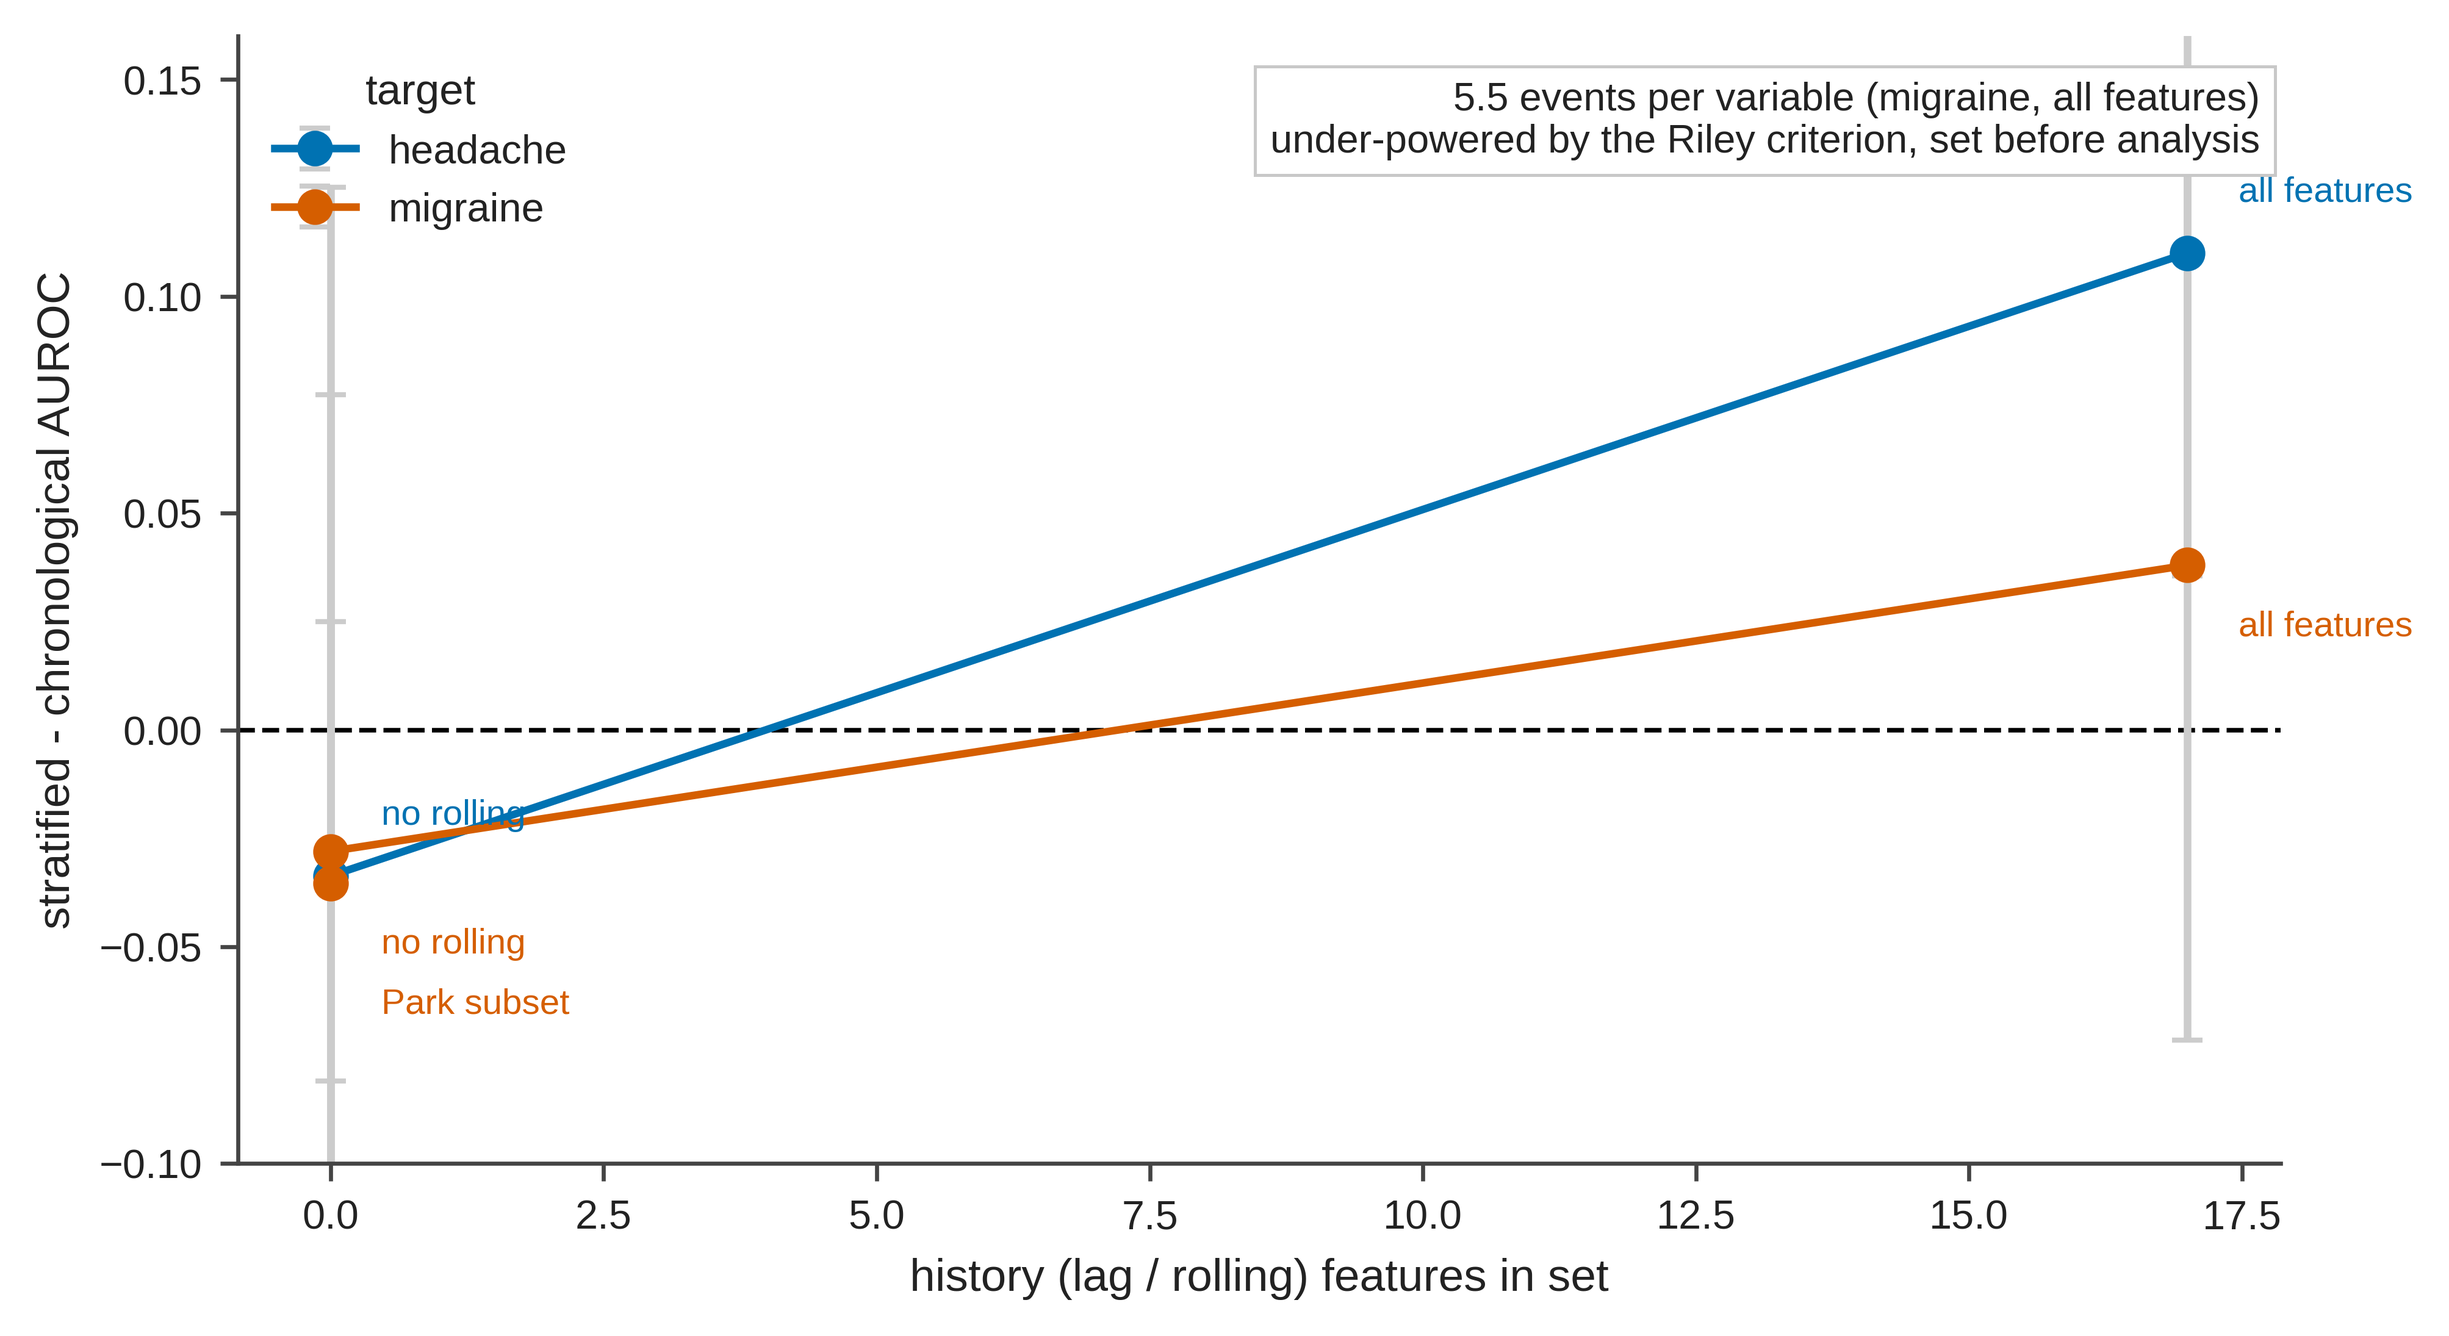
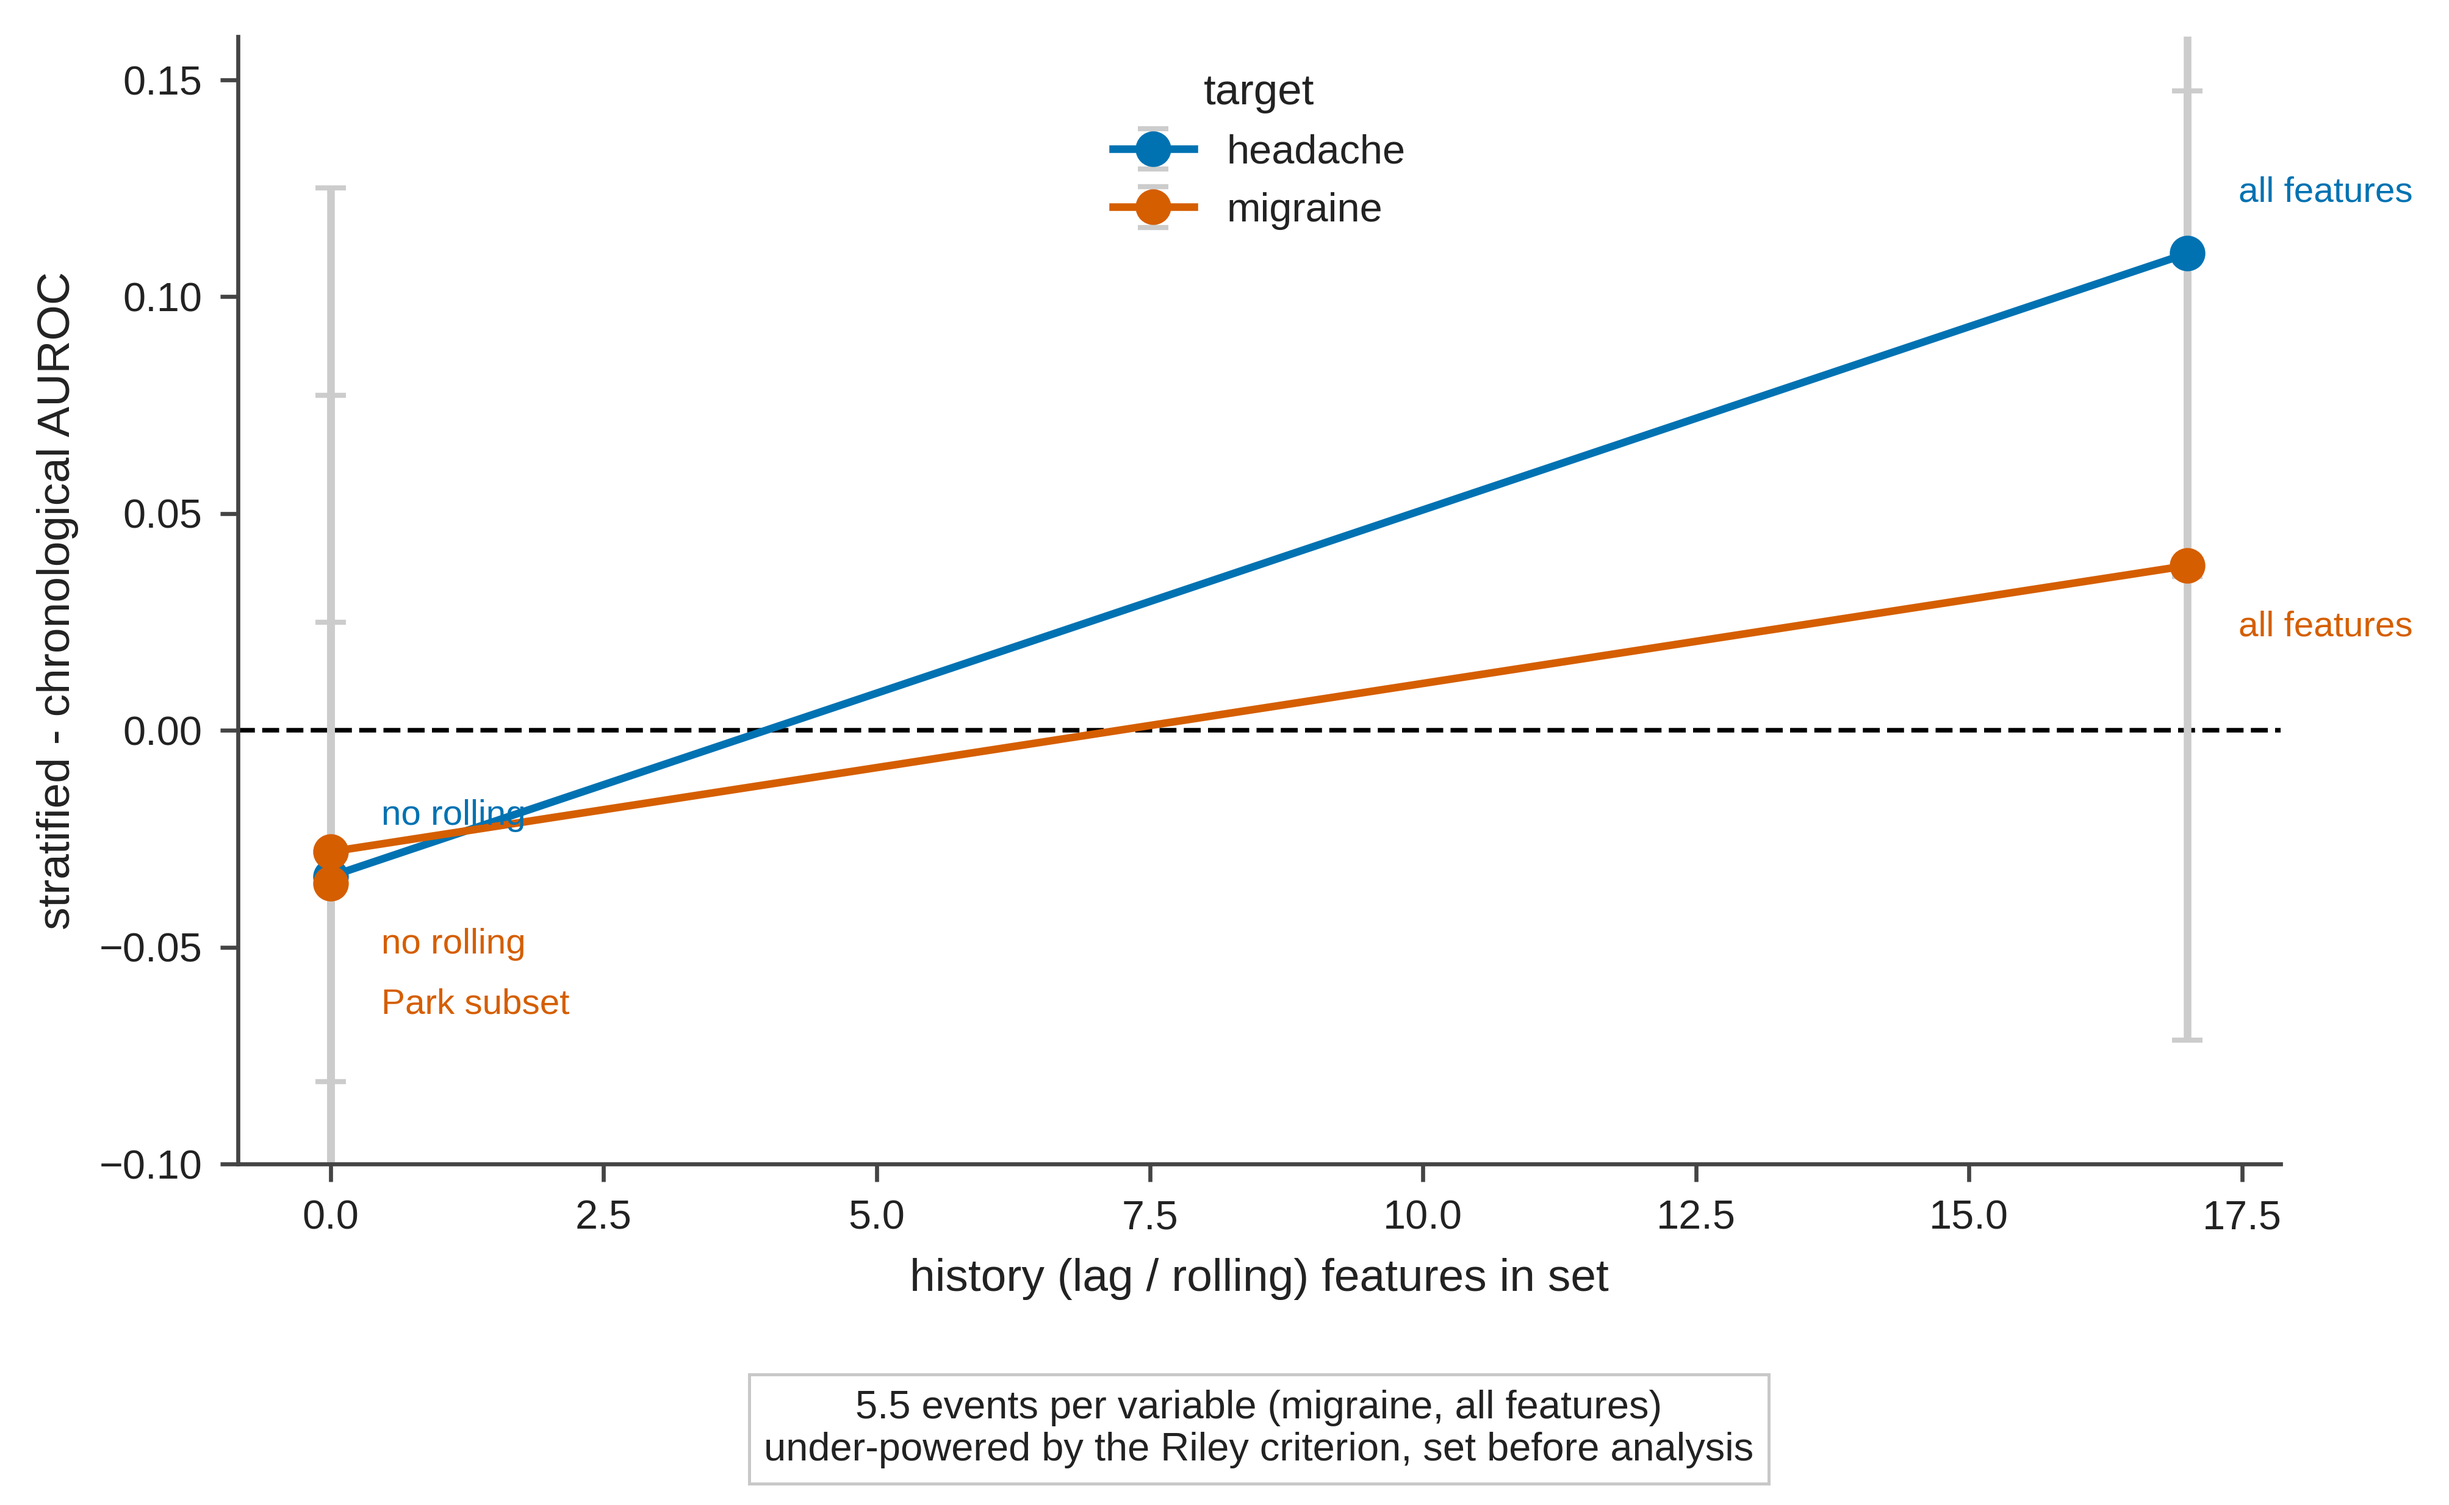
figs

diff --git a/docs/methodAndResults_diagramCreatorScripts/fig_e2_within_person_sites.py b/docs/methodAndResults_diagramCreatorScripts/fig_e2_within_person_sites.py
@@ -70,8 +70,13 @@ def main():
         # neutral reference line + per-panel value, so the shared legend swatch
         # cannot mismatch the drawn colour (the internal estimate is target-specific)
         ax.axhline(INTERNAL[tgt], color=S.SOFT, lw=1.4)
+        # Sat directly on its own rule and ran into the leftmost marker. Nudged
+        # up off the line and given a white ground so the rule does not strike
+        # through the glyphs.
         ax.text(0.02, INTERNAL[tgt], f"internal C {INTERNAL[tgt]:.2f}",
-                transform=ax.get_yaxis_transform(), va="bottom", fontsize=7, color=S.SOFT)
+                transform=ax.get_yaxis_transform(), va="bottom", fontsize=7,
+                color=S.INK,
+                bbox=dict(facecolor="white", edgecolor="none", pad=1.4))
         # Add estimability denominator annotation per panel (bottom-left, away from legend).
         ks = [int(r.get("within_k", 0)) for s in SITES for m in MODELS
               if (r := d.get((tgt, s, m))) is not None]
@@ -85,7 +90,7 @@ def main():
         ax.set_xticklabels([f"held-out\n{s}" for s in SITES])
         ax.set_ylim(0.40, 0.85)
         ax.set_title(tgt)
-        S.epv_annotation(ax, tgt, cell="full_features", loc="upper right")
+        S.epv_annotation(ax, tgt, cell="full_features", loc="below")
     axes[0].set_ylabel("within-person C-statistic")
     axes[0].legend(fontsize=8, loc="upper center", ncol=2)
     fig.suptitle("Within-person discrimination stays near chance off-site\n"

diff --git a/docs/methodAndResults_diagramCreatorScripts/fig_c1_leakage.py b/docs/methodAndResults_diagramCreatorScripts/fig_c1_leakage.py
@@ -105,7 +105,7 @@ def main():
                  fontsize=9.5)
     ax.legend(title="target")
     # §11.7 EPV annotation: the migraine `full_features` point sits at x=17
-    S.epv_annotation(ax, "migraine", cell="full_features", loc="upper right")
+    S.epv_annotation(ax, "migraine", cell="full_features", loc="below")
     print("saved", S.save(fig, HERE / "figures" / "fig_c1_leakage"))
 
 
